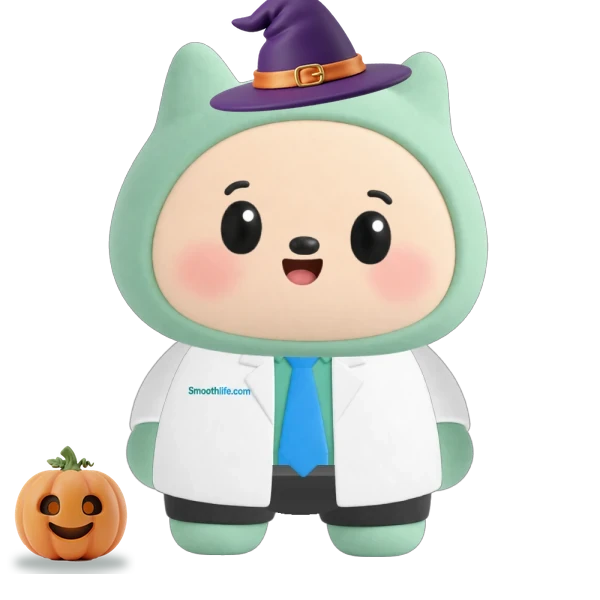
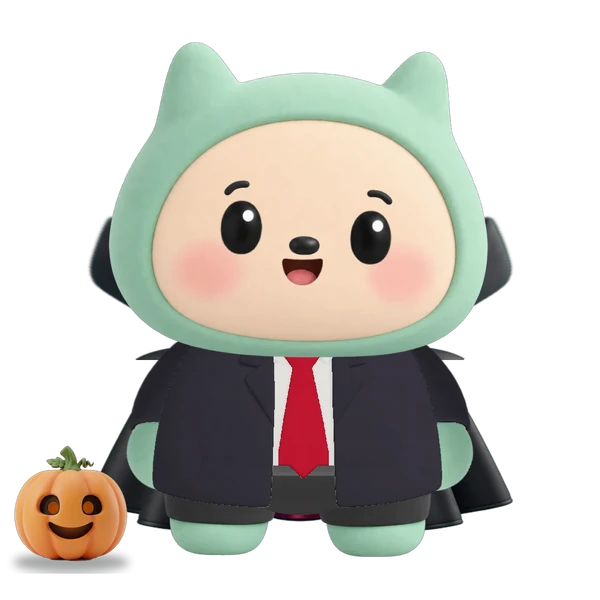
Mascot: Halloween is now Dracula (cape with standing collar, black suit, red tie) instead of the witch hat
Built by smoothlife-mascot/halloween/build_dracula.py; the pumpkin stays.

diff --git a/src/components/mascot/smoothie-engine.ts b/src/components/mascot/smoothie-engine.ts
@@ -24,7 +24,7 @@ export const VIEW_BUST: View = { x0: 110, x1: 890, y0: -40, y1: 740 };
  * so a changed file under the same URL never reaches anyone who has visited
  * before — the query string makes it a new URL.
  */
-export const MASCOT_ASSET_VERSION = "2026-10-30c";
+export const MASCOT_ASSET_VERSION = "2026-10-30d";
 export const mascotAsset = (file: string) => `/mascot/rig/${file}?v=${MASCOT_ASSET_VERSION}`;
 
 /** Gestures and moods the storefront may trigger (sad / angry / love are left out on purpose). */
@@ -118,8 +118,9 @@ const FACES: Record<string, number[]> = {
   happy: [176, 6, 818, 568], laugh: [176, 14, 818, 568],
   surprised: [176, 20, 818, 568], curious: [176, 17, 858, 568], worried: [176, 17, 818, 568],
 };
-// Halloween props (the hat box is still named HAT_BOX): boxes come from smoothlife-mascot/halloween/build_halloween.py.
-const HAT_BOX = [346, -51, 690, 157];
+// Halloween (Dracula): the cape from smoothlife-mascot/halloween/build_dracula.py,
+// the pumpkin from build_halloween.py.
+const CAPE_BOX = [0, 352, 1000, 908];
 const PUMPKIN_BOX = [11, 740, 225, 956];
 // Christmas props: smoothlife-mascot/christmas/build_christmas.py.
 const SANTA_HAT_BOX = [374, -71, 718, 167];
@@ -127,12 +128,15 @@ const SANTA_HAT_BOX = [374, -71, 718, 167];
 // "<part>-<theme>.webp" instead (Santa suit: smoothlife-mascot/christmas/build_santa.py).
 const SUIT: Partial<Record<MascotTheme, string[]>> = {
   christmas: ["body", "arm-left", "arm-left-down", "arm-right", "arm-right-up", "arm-left-hand", "arm-right-hand"],
+  halloween: ["body", "arm-left", "arm-left-down", "arm-right", "arm-right-up", "arm-left-hand", "arm-right-hand"],
 };
 const GIFT_BOX = [20, 755, 217, 959];
 // New Year props: smoothlife-mascot/newyear/build_newyear.py.
 const PARTY_HAT_BOX = [440, -61, 605, 160];
 const BALLOONS_BOX = [786, 749, 993, 941];
 const LAYERS: LayerDef[] = [
+  // behind everything, swaying with the body the way the coat does; its collar stands up beside the hood
+  { name: "halloween-cape", theme: "halloween", bbox: CAPE_BOX, texBox: CAPE_BOX, grid: [12, 10], w: (_x, y) => { const c = smooth(830, 640, y); return [["chest", c], ["hips", 1 - c]]; } },
   // stands on the ground beside the feet — the "world" bone never moves, so it stays put when he jumps
   { name: "halloween-pumpkin", theme: "halloween", bbox: PUMPKIN_BOX, texBox: PUMPKIN_BOX, grid: [1, 1], w: () => [["world", 1]] },
   { name: "christmas-gift", theme: "christmas", bbox: GIFT_BOX, texBox: GIFT_BOX, grid: [1, 1], w: () => [["world", 1]] },
@@ -153,7 +157,6 @@ const LAYERS: LayerDef[] = [
   { name: "mouth", bbox: [466, 394, 543, 448], grid: [2, 2], w: () => [["mouth", 1]], group: "base" },
   ...Object.entries(FACES).map(([id, bbox]): LayerDef => ({ name: "face-" + id, react: id, bbox, grid: [26, 22], w: headWeights })),
   // over the hood and every face, under the raised mittens
-  { name: "halloween-hat", theme: "halloween", bbox: HAT_BOX, texBox: HAT_BOX, grid: [4, 3], w: () => [["head", 1]] },
   { name: "christmas-hat", theme: "christmas", bbox: SANTA_HAT_BOX, texBox: SANTA_HAT_BOX, grid: [4, 3], w: () => [["head", 1]] },
   { name: "newyear-hat", theme: "newyear", bbox: PARTY_HAT_BOX, texBox: PARTY_HAT_BOX, grid: [3, 3], w: () => [["head", 1]] },
   { name: "arm-left-hand", armSide: "front", bbox: [129, 406, 377, 657], grid: [16, 16], w: ARM_L },
